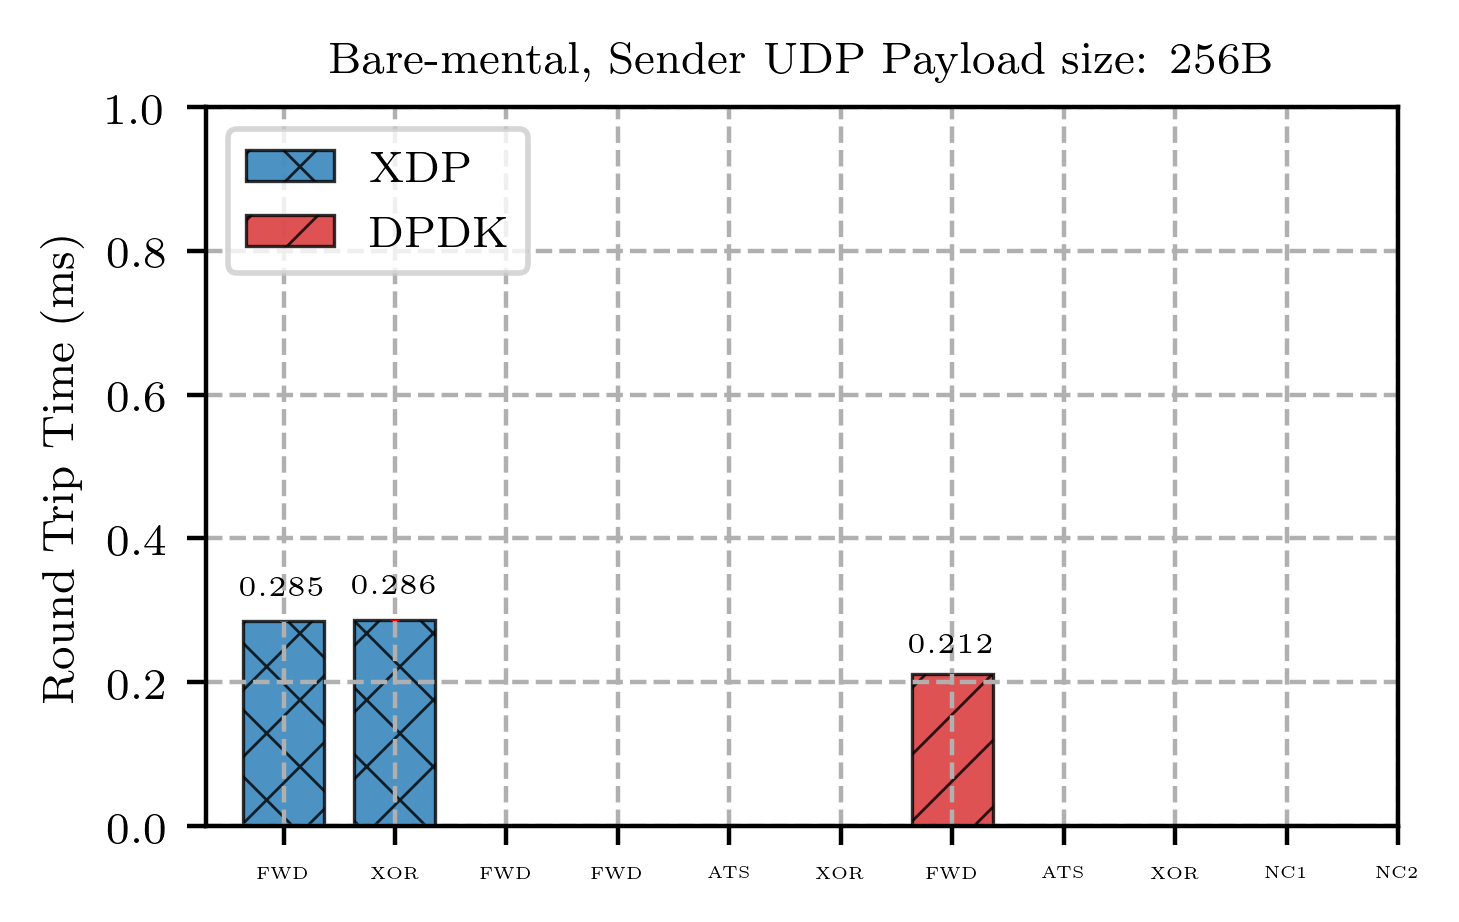
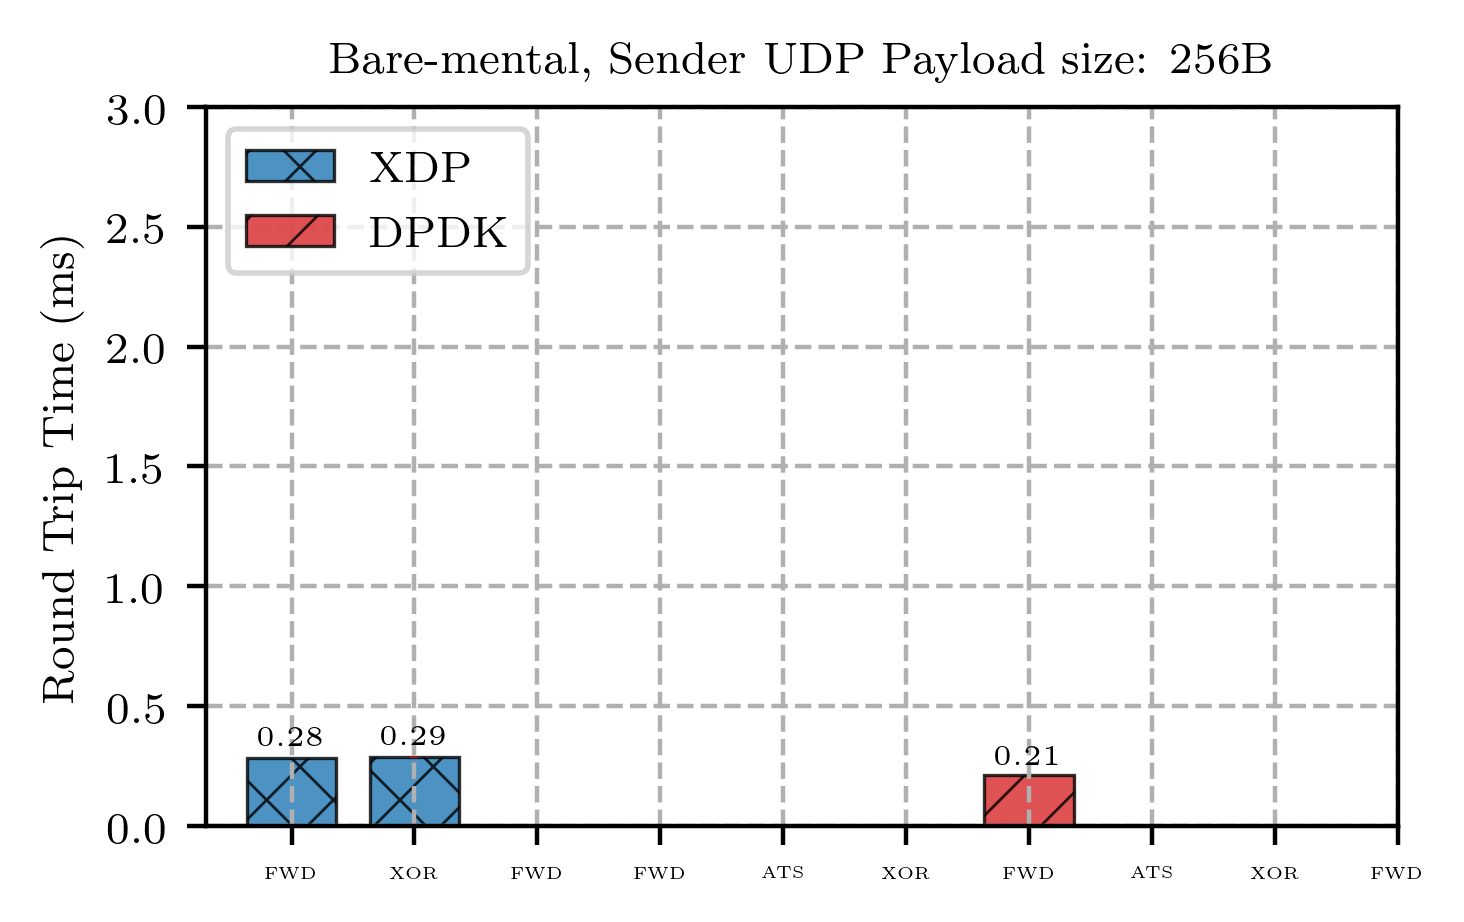
<data>: Add preliminary results of DPDK KNI, burst=1

diff --git a/evaluation/round_trip_time/plot.py b/evaluation/round_trip_time/plot.py
@@ -112,7 +112,7 @@ def label_bar(rects, ax):
     for rect in rects:
         height = rect.get_height()
         ax.text(rect.get_x() + rect.get_width() / 2., 1.1*height,
-                '%.3f' % height, fontsize=5,
+                '%.2f' % height, fontsize=5,
                 ha='center', va='bottom')
 
 
@@ -129,7 +129,9 @@ def plot_ipd(payload_size='1400B', profile=''):
         'xdp_fwd', 'xdp_xor',
         'lk_fwd',
         'click_fwd', 'click_appendts', 'click_xor',
-        'dpdk_fwd', 'dpdk_appendts', 'dpdk_xor', 'dpdk_nc_b8_ed1', 'dpdk_nc_ed2'
+        'dpdk_fwd', 'dpdk_appendts', 'dpdk_xor',
+        'dpdk_fwd_kni'
+        # 'dpdk_nc_b8_ed1', 'dpdk_nc_ed2'
     ]
     if payload_size == '1400B':
         items.remove('xdp_xor')
@@ -147,9 +149,10 @@ def plot_ipd(payload_size='1400B', profile=''):
                     'FWD',
                     'FWD', 'ATS', 'XOR',
                     'FWD', 'ATS', 'XOR',
-                    'NC1', 'NC2'
+                    'FWD'
+                    # 'NC1', 'NC2'
                     ]
-    colors = [cmap(x) for x in (0, 0, 1, 2, 2, 2, 3, 3, 3, 3, 3)]
+    colors = [cmap(x) for x in (0, 0, 1, 2, 2, 2, 3, 3, 3, 4, 4, 4)]
     hatch_patterns = ('xx', 'xx', '++', '\\\\', '\\\\',
                       '\\\\', '//', '//', '//', '//', '//')
     labels = [""] * len(csv_files)
@@ -158,27 +161,31 @@ def plot_ipd(payload_size='1400B', profile=''):
                         'FWD',
                         'FWD', 'ATS', 'XOR',
                         'FWD', 'ATS', 'XOR',
-                        'NC1', 'NC2'
+                        'FWD'
+                        # 'NC1', 'NC2'
                         ]
-        colors = [cmap(x) for x in (0, 1, 2, 2, 2, 3, 3, 3, 3, 3)]
+        colors = [cmap(x) for x in (0, 1, 2, 2, 2, 3, 3, 3, 4)]
         hatch_patterns = ('xx', '++', '\\\\', '\\\\',
                           '\\\\', '//', '//', '//', '//', '//')
         labels[0] = "XDP"
         labels[1] = "LKF"
         labels[2] = "Click"
         labels[5] = "DPDK"
+        labels[8] = "DPDK KNI"
 
     if payload_size == '256B':
         xtick_labels = ['FWD', 'XOR',
                         'FWD',
                         'FWD', 'ATS', 'XOR',
                         'FWD', 'ATS', 'XOR',
-                        'NC1', 'NC2'
+                        # 'NC1', 'NC2'
+                        'FWD'
                         ]
         labels[0] = "XDP"
         labels[2] = "LKF"
         labels[3] = "Click"
         labels[6] = "DPDK"
+        labels[9] = "DPDK KNI"
 
     bar_width = 0.08
     gap = 0.03
@@ -201,7 +208,7 @@ def plot_ipd(payload_size='1400B', profile=''):
     rtt_ax.set_xticks([0 + x * (bar_width + gap)
                        for x in range(len(csv_files))])
     # rtt_ax.set_xticks([0, 0+bar_width+gap])
-    rtt_ax.set_ylim(0, 1.0)
+    rtt_ax.set_ylim(0, 3.0)
     rtt_ax.set_xticklabels(xtick_labels, fontsize=3)
     rtt_ax.grid(linestyle='--')
 
@@ -211,6 +218,11 @@ def plot_ipd(payload_size='1400B', profile=''):
     rtt_ax.set_title(title)
 
     save_fig(fig, './rtt_fix_ipd_%s_%s' % (payload_size, profile))
+
+
+def plot_cdf():
+    """Plot CDF for comparing DPDK and DPDK KNI"""
+    pass
 
 
 if __name__ == '__main__':

diff --git a/vnf_release/dpdk_udp_nc/l2fwd.c b/vnf_release/dpdk_udp_nc/l2fwd.c
@@ -170,6 +170,8 @@ uint32_t vnf_recv_dst_ip = 0;
 
 static struct in_addr vnf_send_src_ip_addr;
 uint32_t vnf_send_src_ip = 0;
+static struct in_addr vnf_send_dst_ip_addr;
+uint32_t vnf_send_dst_ip = 0;
 
 static uint16_t nb_rxd = RTE_TEST_RX_DESC_DEFAULT;
 static uint16_t nb_txd = RTE_TEST_TX_DESC_DEFAULT;
@@ -481,10 +483,10 @@ static void poll_kni(uint16_t portid)
                 return;
         }
         rte_kni_handle_request(kni_port_params_array[portid]->kni[0]);
-        RTE_LOG(INFO, USER1, "Recv %u packets from KNI device\n", num_rx);
+        RTE_LOG(DEBUG, USER1, "Recv %u packets from KNI device\n", num_rx);
 
         filter_mbuf_array(pkts_burst, num_rx);
-        mod_ip_addr(num_rx, pkts_burst, &vnf_send_src_ip, NULL);
+        mod_ip_addr(num_rx, pkts_burst, &vnf_send_src_ip, &vnf_send_dst_ip);
         for (i = 0; i < num_rx; ++i) {
                 if (pkts_burst[i] != NULL) {
                         l2fwd_put_rxq(pkts_burst[i], portid);
@@ -1158,6 +1160,8 @@ int main(int argc, char** argv)
         vnf_recv_dst_ip = vnf_recv_ip_dst_addr.s_addr;
         inet_pton(AF_INET, "10.0.0.13", &vnf_send_src_ip_addr);
         vnf_send_src_ip = vnf_send_src_ip_addr.s_addr;
+        inet_pton(AF_INET, "10.0.0.14", &vnf_send_dst_ip_addr);
+        vnf_send_dst_ip = vnf_send_dst_ip_addr.s_addr;
 
         RTE_LOG(INFO, USER1, "Packet capturing: %s\n",
             packet_capturing ? "enabled" : "disabled");
